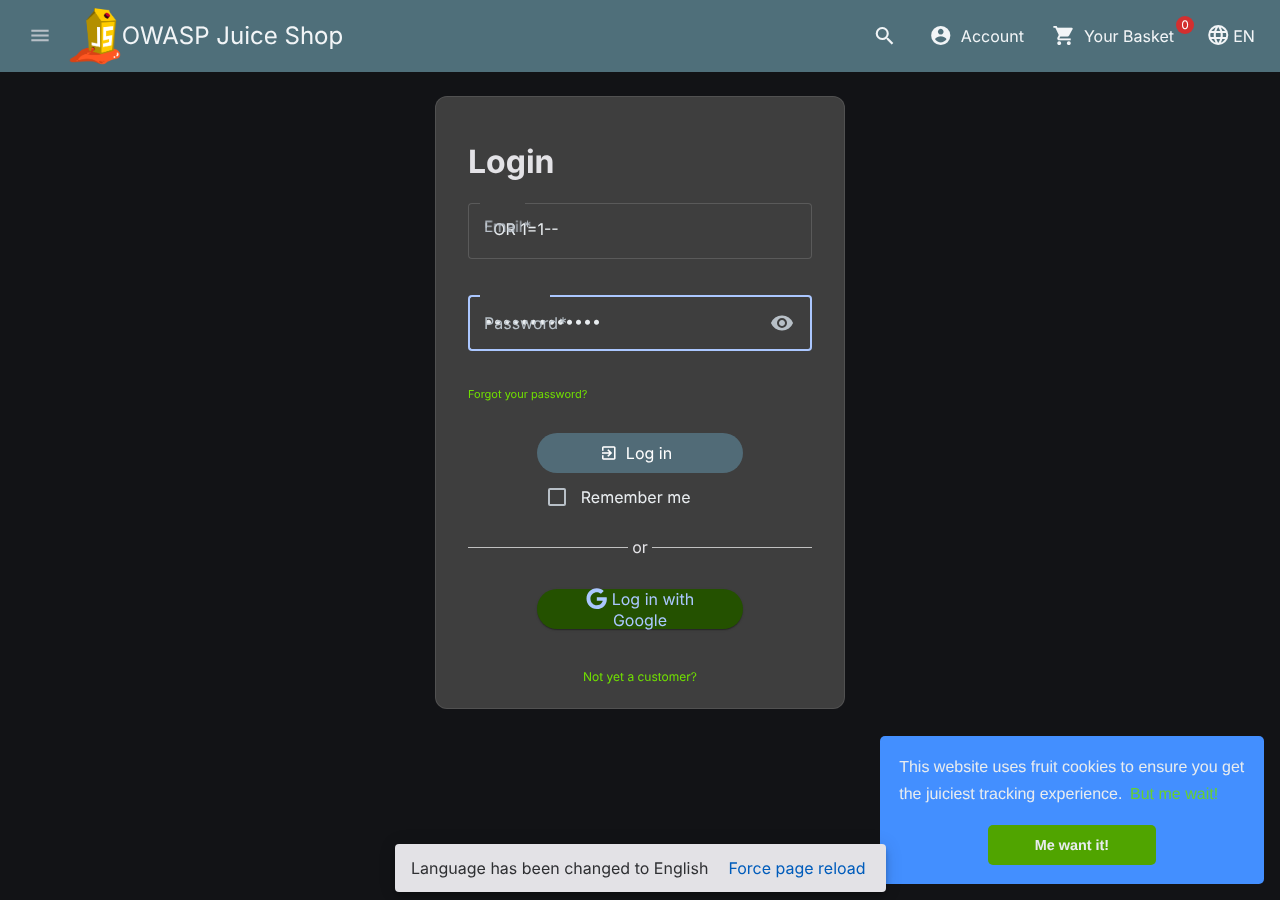
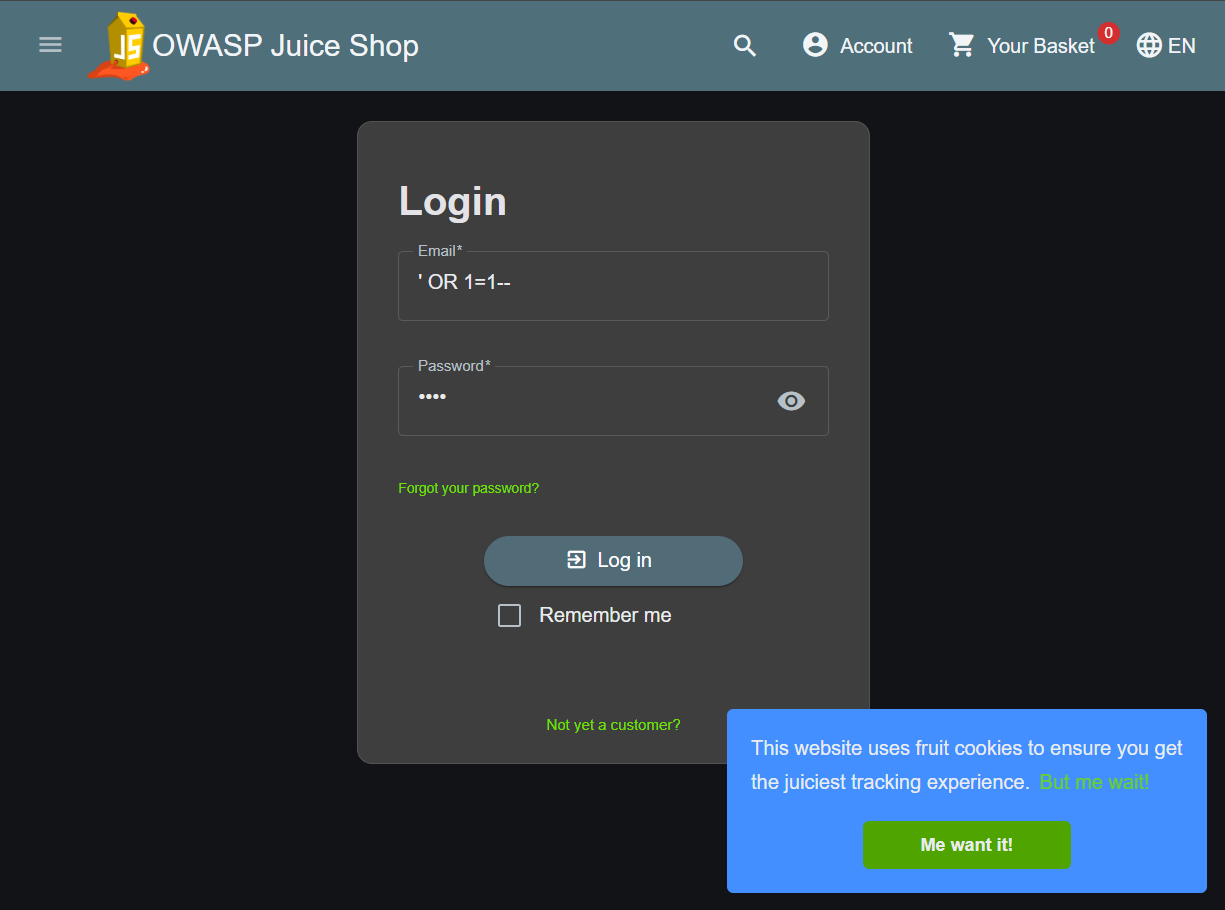
Actualizar evidencia P1/P2 al despliegue real en GCP Compute Engine
Se migró Juice Shop de Docker local a una VM de GCP (34.56.167.155) para
que el despliegue sea accesible públicamente. Se repitió el exploit SQLi
del P2 contra el servidor real y se reemplazó toda la evidencia (capturas,
JSON/txt crudo con JWT decodificado) manteniendo la evidencia local
original como referencia del despliegue inicial.

Changed region(s): [[0.0, 0.0, 1.0, 0.9956], [0.3722, 0.5911, 0.6204, 0.7156]]

diff --git a/trabajo-final/punto1-despliegue/README.md b/trabajo-final/punto1-despliegue/README.md
@@ -2,23 +2,60 @@
 
 **Responsable:** Kevin
 
+## Decisión de despliegue
+
+Se validó primero en Docker local (evidencia abajo) y luego se migró a una
+**VM de Google Cloud Compute Engine** para tener la aplicación accesible
+públicamente — necesario para que el resto del equipo (y el profesor)
+puedan reproducir la explotación del Punto 2 sin depender de la máquina de
+Kevin. Despliegue final:
+
+- **VM:** `juice-shop-vm`, GCP Compute Engine, zona `us-central1-a`,
+  `e2-small` (2 vCPU, 2 GB RAM), Debian 13 (trixie).
+- **Contenedor:** mismo imagen que en local, `bkimminich/juice-shop`,
+  mapeada al puerto 80 de la VM (`-p 80:3000`).
+- **Firewall:** regla "Allow HTTP traffic" de GCP (puerto 80 abierto a
+  internet) — necesaria para que el challenge sea accesible, pero implica
+  que la vulnerabilidad del Punto 2 queda expuesta públicamente mientras la
+  VM esté encendida. **Nota para Valentina (P4) y Santiago (P3):** esto es
+  justo el tipo de decisión de arquitectura/exposición de red que le sirve
+  de insumo a P4, y a P3 si deciden tratar el firewall como parte de la
+  remediación (ver también `../punto2-explotacion/README.md`).
+- **URL pública:** `http://34.56.167.155`
+
 ## Qué va aquí
 
 - `terminal-evidencia-p1.txt` — salida de `docker --version`, `docker ps` y
-  `curl -I http://localhost:3000` confirmando el contenedor corriendo y el
-  servidor respondiendo HTTP 200.
-- `juice-shop-browser.png` — captura de la tienda cargada en el navegador
-  (Figura 1).
+  `curl -I http://localhost:3000` del despliegue **local** inicial.
+- `juice-shop-browser.png` — captura de la tienda cargada en el navegador,
+  despliegue **local** (Figura 1, versión inicial).
+- `terminal-evidencia-p1-gcp.txt` — `docker ps` y `curl -I http://localhost`
+  ejecutados por SSH dentro de la VM de GCP, confirmando el contenedor
+  corriendo y el servidor respondiendo HTTP 200 en el despliegue real.
+- `juice-shop-browser-gcp.png` — **Figura 1 (versión final).** Tienda
+  cargada en `http://34.56.167.155`, ventana completa del navegador con la
+  barra de direcciones visible.
 
 ## Cómo reproducirlo
 
+**Local:**
 ```bash
 docker pull bkimminich/juice-shop
 docker run -d -p 3000:3000 --name juice-shop bkimminich/juice-shop
 curl -I http://localhost:3000   # debe responder HTTP 200
 ```
 
-Luego abrir `http://localhost:3000` en el navegador.
+**GCP Compute Engine:**
+1. Crear proyecto y VM (`e2-small`, Debian, firewall "Allow HTTP traffic")
+   desde la consola de GCP.
+2. Por SSH (botón **SSH** de la consola, sin llaves que configurar):
+   ```bash
+   sudo apt-get update
+   sudo apt-get install -y docker.io
+   sudo systemctl enable --now docker
+   sudo docker run -d -p 80:3000 --name juice-shop --restart unless-stopped bkimminich/juice-shop
+   ```
+3. Abrir `http://<IP_EXTERNA_DE_LA_VM>` en el navegador.
 
 El paso a paso de explotación (Punto 2, SQL injection en el login) y el
 reporte de 4 slides van en `../punto2-explotacion/`.

diff --git a/trabajo-final/punto2-explotacion/P2_Reporte_Vulnerabilidad.md b/trabajo-final/punto2-explotacion/P2_Reporte_Vulnerabilidad.md
@@ -12,7 +12,7 @@
 
 **Scope:** `POST /rest/user/login` (formulario de login, reto "Login Admin" de Juice Shop)
 
-**Affected devices:** instancia de Juice Shop desplegada en Docker local (`juice-shop:3000`); aplica a cualquier despliegue que use el mismo código fuente (`routes/login.ts`).
+**Affected devices:** instancia de Juice Shop desplegada en un contenedor Docker sobre una VM de Google Cloud Compute Engine, expuesta públicamente en `34.56.167.155` (puerto 80 → 3000 del contenedor); aplica a cualquier despliegue que use el mismo código fuente (`routes/login.ts`), local o en la nube.
 
 **CVSS v3.1:** **9.1 (Crítico)**
 Vector: `AV:N/AC:L/PR:N/UI:N/S:U/C:H/I:H/A:N`
@@ -33,7 +33,7 @@ Vector: `AV:N/AC:L/PR:N/UI:N/S:U/C:H/I:H/A:N`
 
 ## Slide 2 — Pasos de reproducción
 
-1. Navegar a `http://localhost:3000/#/login`.
+1. Navegar a `http://34.56.167.155/#/login` (instancia pública en GCP Compute Engine).
 2. En el campo **email**, ingresar: `' OR 1=1--`
 3. En el campo **password**, ingresar cualquier valor (no se valida).
 4. Enviar el formulario / interceptar la petición `POST /rest/user/login`.
@@ -47,8 +47,10 @@ Vector: `AV:N/AC:L/PR:N/UI:N/S:U/C:H/I:H/A:N`
 - **Figura 2.** Petición interceptada en la pestaña **Network** de las DevTools de Chrome (equivalente al HTTP History de Burp), filtrada a `login`, mostrando el payload crudo enviado.
   `[ESPACIO PARA IMAGEN]` → `02-devtools-network-payload.png`
   (headers y response del mismo request: `02-devtools-network-headers.png`, `02-devtools-network-response.png`; raw en texto: `02-raw-request-response.txt`)
-- **Figura 3.** Acceso al panel de administración autenticado como `admin@juice-sh.op`, sin conocer la contraseña real.
+- **Figura 3.** Acceso al panel de administración autenticado como `admin@juice-sh.op`, sin conocer la contraseña real. La captura incluye la barra de direcciones del navegador mostrando `34.56.167.155`, confirmando que el ataque se ejecutó contra el servidor público, no contra localhost.
   `[ESPACIO PARA IMAGEN]` → `03-autenticado-como-admin.png`
+- **Evidencia adicional.** Banner nativo de Juice Shop confirmando "You successfully solved a challenge: Login Admin", generado automáticamente por la aplicación al completar el bypass — confirmación independiente del impacto, sin depender de nuestra propia interpretación del JWT.
+  `[ESPACIO PARA IMAGEN]` → `00-challenge-login-admin-resuelto.png`
 
 ---
 

diff --git a/trabajo-final/punto2-explotacion/README.md b/trabajo-final/punto2-explotacion/README.md
@@ -9,6 +9,9 @@ Juice Shop. Payload: `' OR 1=1--` en el campo email, cualquier valor en
 password. CVSS 3.1: **9.1 (Crítico)** —
 `AV:N/AC:L/PR:N/UI:N/S:U/C:H/I:H/A:N`. OWASP Top 10 A03 (Injection), CWE-89.
 
+Explotado contra el despliegue real en **GCP Compute Engine**
+(`http://34.56.167.155`, ver `../punto1-despliegue/`), no contra localhost.
+
 Causa raíz en el código: `routes/login.ts:34` del repo oficial de Juice Shop
 (ver `../punto3-remediacion/`) — concatena `req.body.email` directamente en
 el SQL en vez de usar parámetros vinculados. Ese fix es scope del **Punto 3
@@ -32,7 +35,11 @@ remediación no empiece de cero.
     (`"role":"admin"`). Complementa las capturas de pantalla.
 - `03-autenticado-como-admin.png` — **Figura 3.** Acceso al panel de
   administración (`/#/administration`) autenticado como `admin@juice-sh.op`,
-  sin conocer la contraseña real.
+  sin conocer la contraseña real. Captura de ventana completa: se ve la
+  barra de direcciones con `34.56.167.155`.
+- `00-challenge-login-admin-resuelto.png` — evidencia adicional: banner
+  nativo de Juice Shop ("You successfully solved a challenge: Login
+  Admin") al completar el bypass, confirmación independiente del impacto.
 - `exploit_sqli.js` — script (Playwright) que automatiza el login con el
   payload y captura las figuras 1 y 3 de forma reproducible.
 - `capture_devtools_network.js` — script (CDP/Node, sin Playwright) que
@@ -44,8 +51,14 @@ remediación no empiece de cero.
 - `P2_Reporte_Vulnerabilidad.md` — reporte estructurado de la vulnerabilidad
   (ver sección siguiente).
 
-Ambos scripts requieren Juice Shop corriendo en `localhost:3000` (ver
-`../punto1-despliegue/`).
+Ambos scripts automatizan el ataque contra `localhost:3000` y fueron el
+método usado para la primera versión de esta evidencia (despliegue local).
+Las figuras actuales (`00-*` a `03-*`) corresponden a una repetición
+**manual** del mismo ataque contra el despliegue real en GCP
+(`34.56.167.155`, ver `../punto1-despliegue/`), hecha así porque el entorno
+de automatización no tiene salida de red hacia la IP pública de la VM. El
+payload, los pasos y el resultado (JWT con `role: admin`) son idénticos en
+ambos casos — solo cambia el host.
 
 ## Reporte (4 slides)
 
